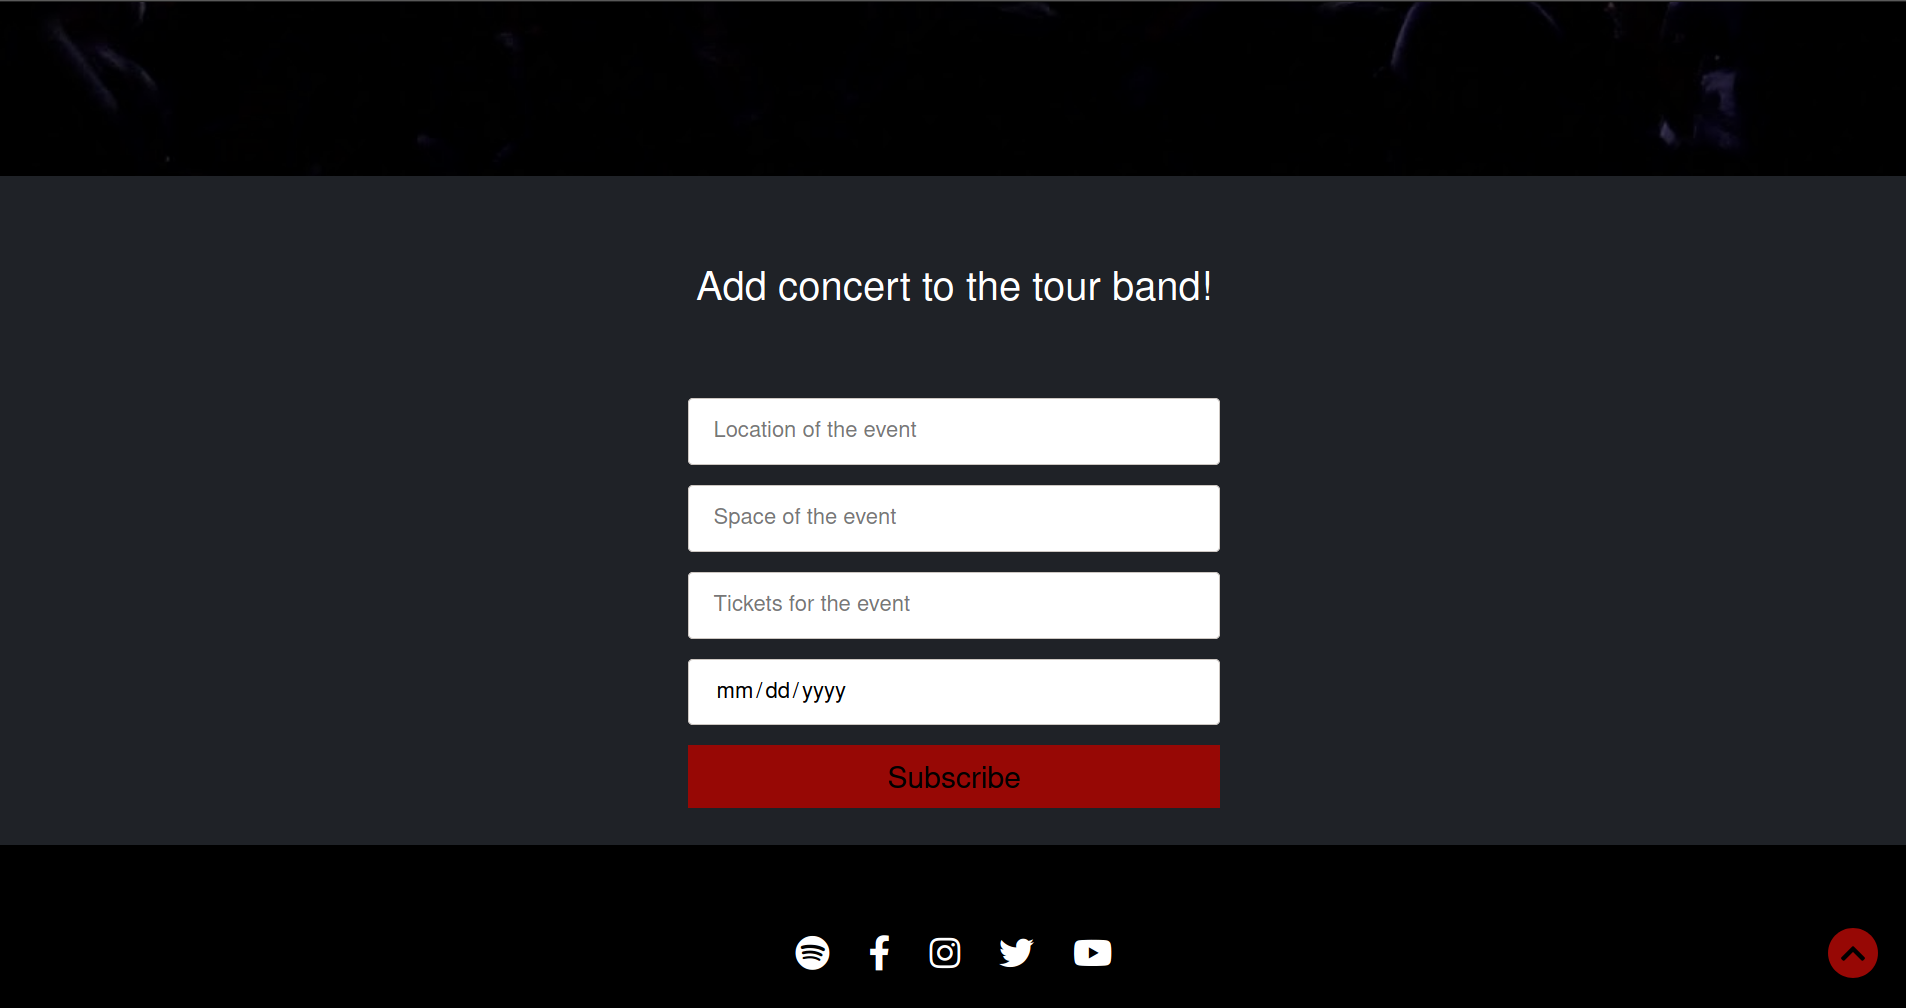
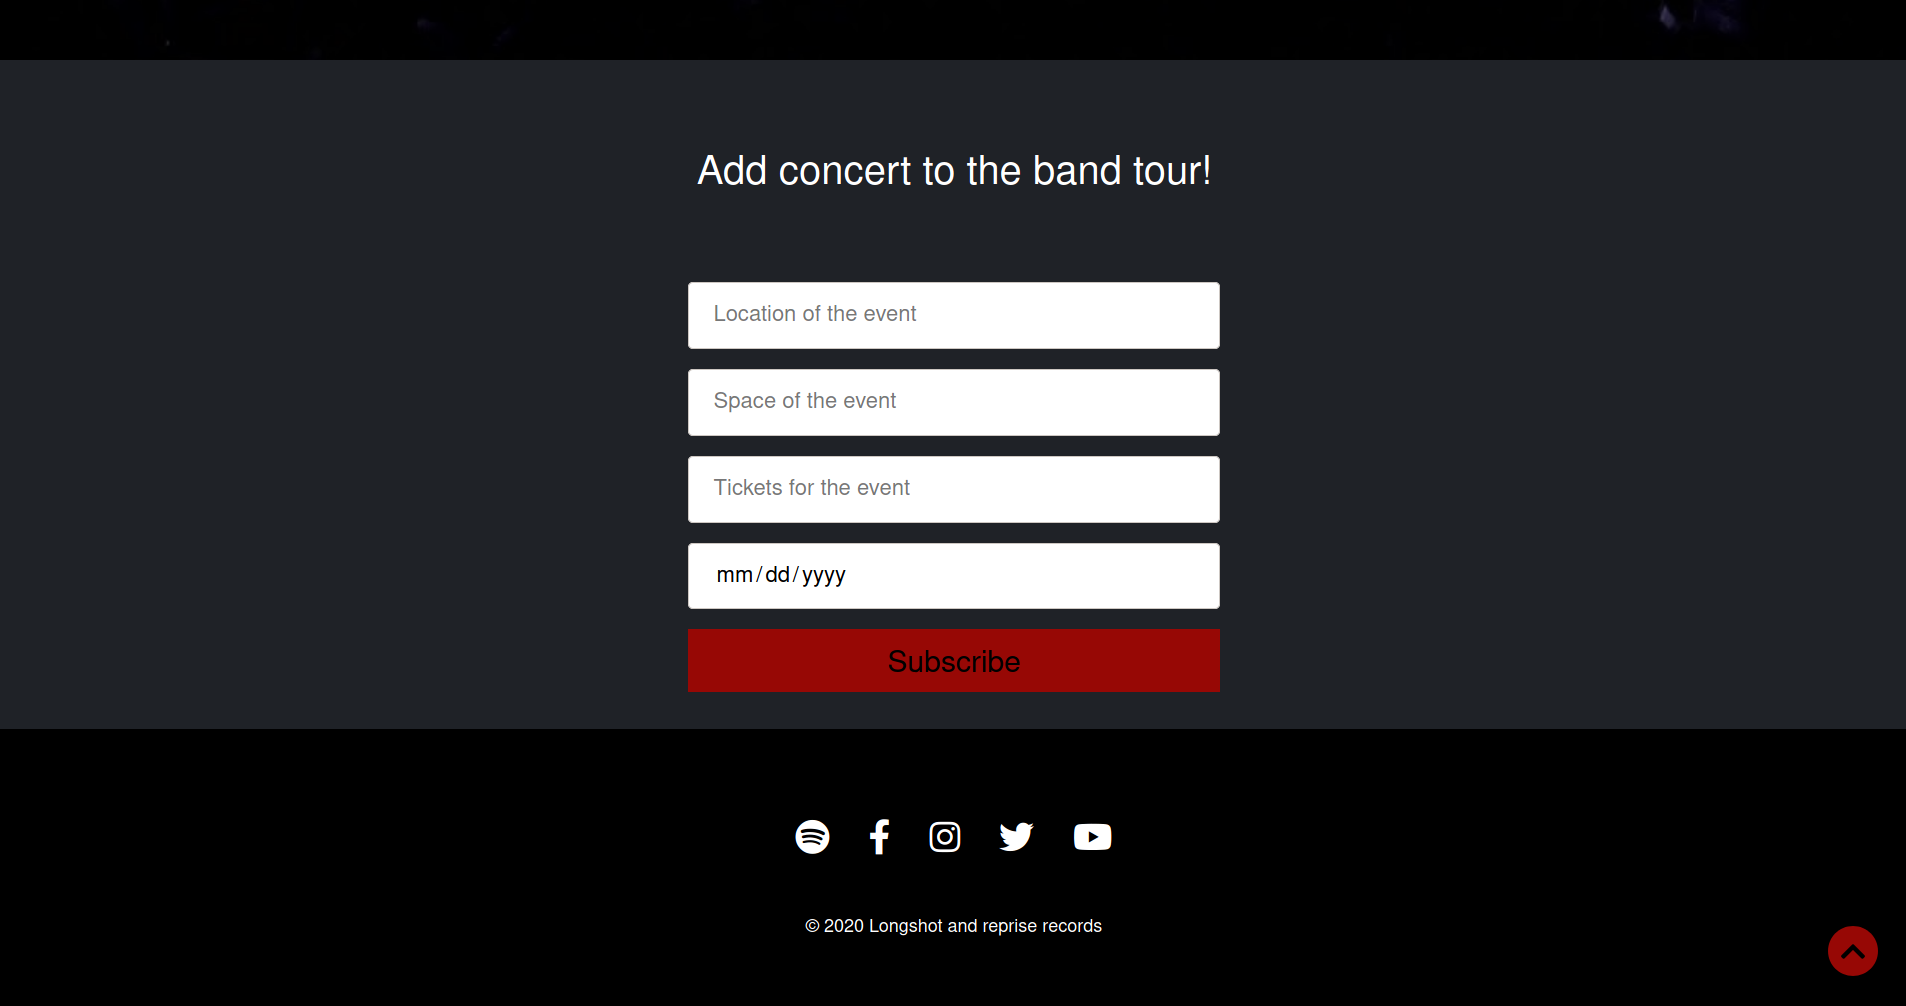
Update README.md

diff --git a/resources/views/administration/tour_administration.blade.php b/resources/views/administration/tour_administration.blade.php
@@ -37,7 +37,7 @@
         <div class="container-fluid">
             <div class="col-lg-12" align="center">
                 <div class="content">
-                    <h1>Add concert to the tour band!</h1>
+                    <h1>Add concert to the band tour!</h1>
 
                     <div>&nbsp;</div>
 
